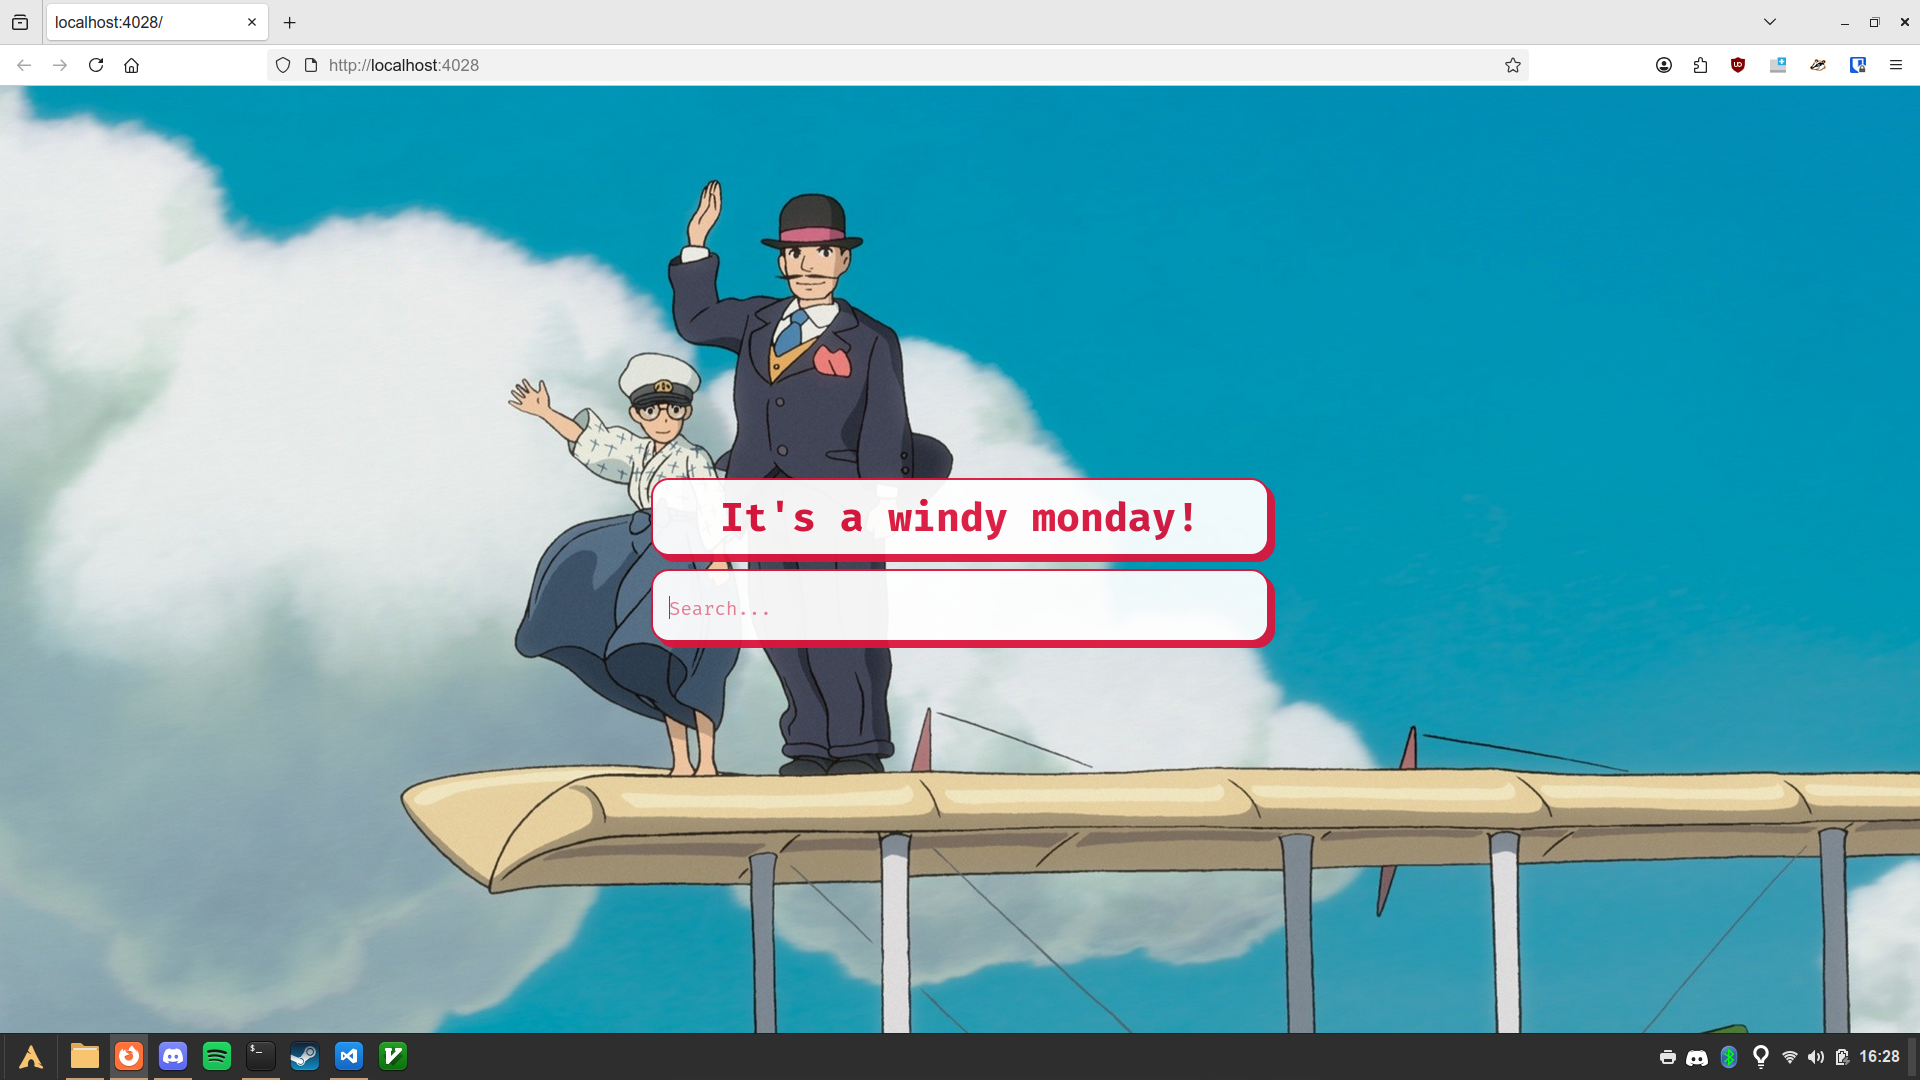
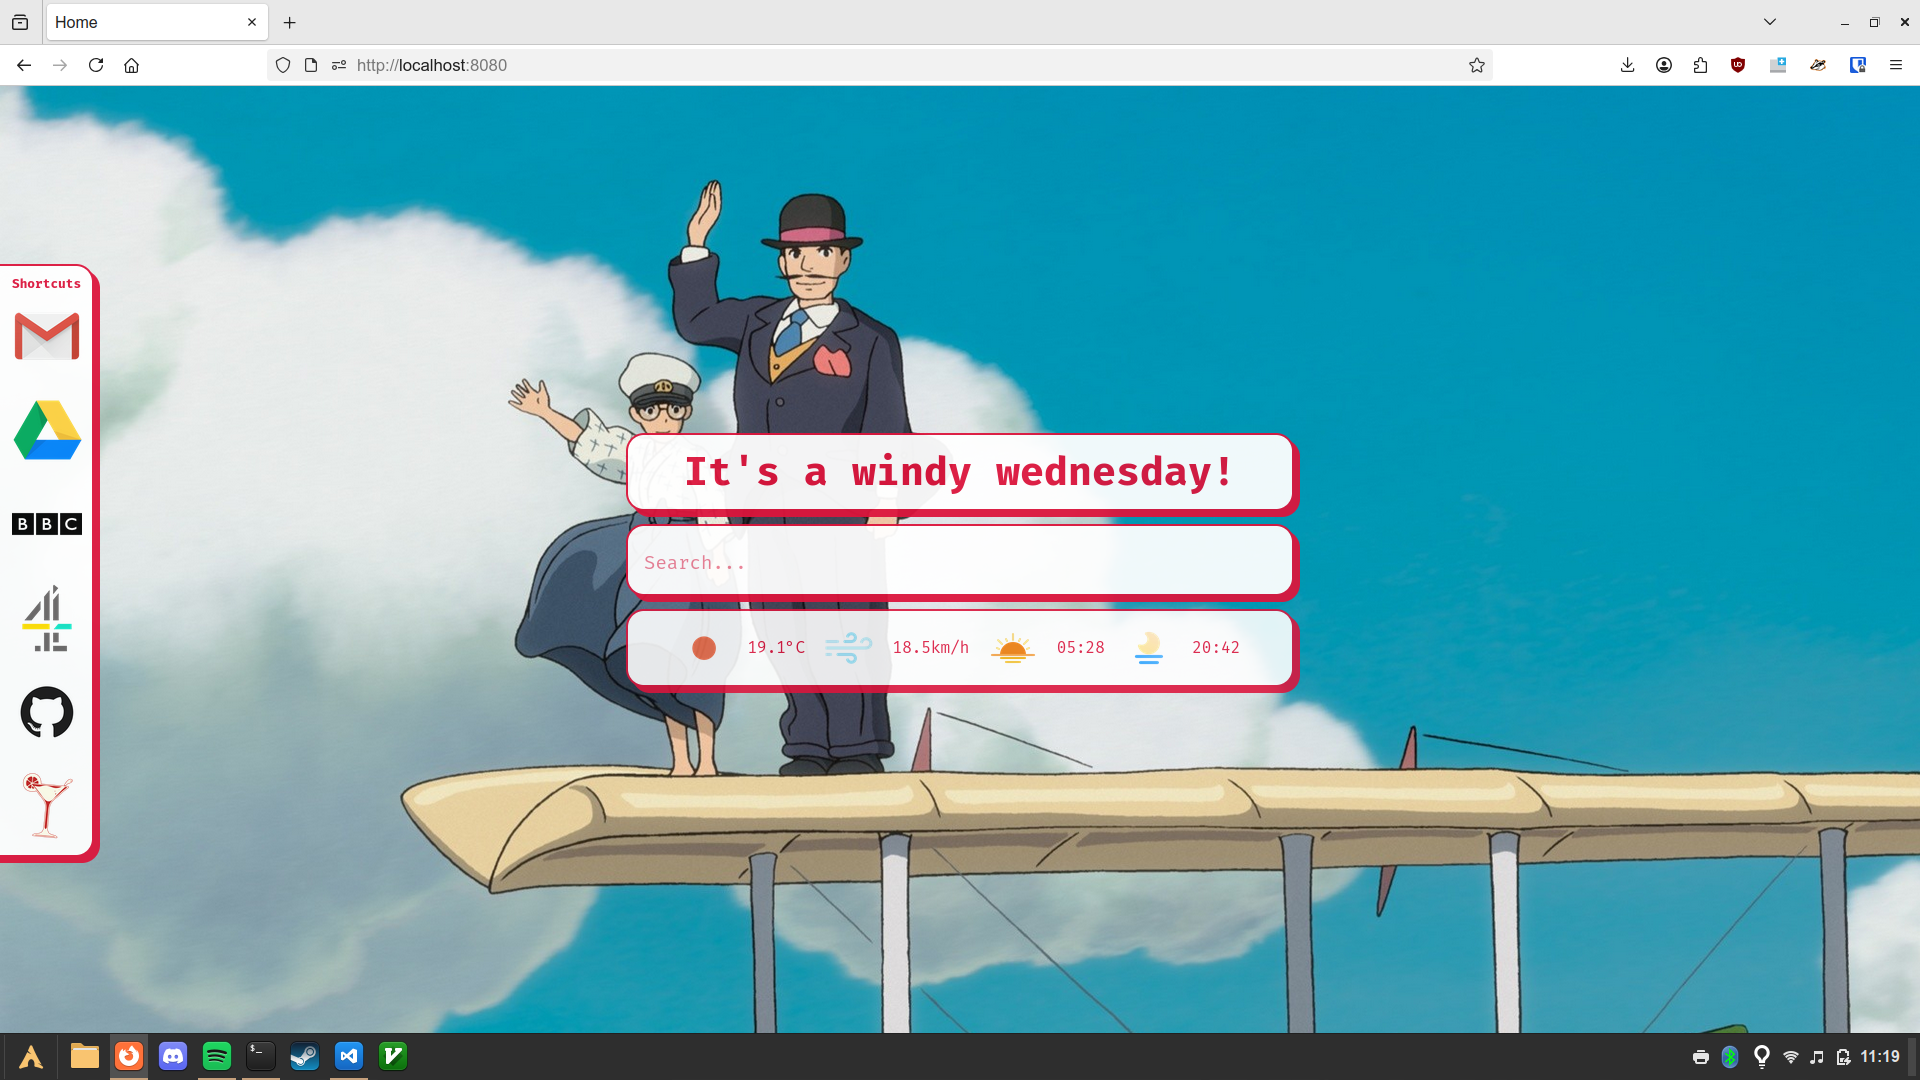
Add weather elements

diff --git a/src/main/resources/static/css/style.css b/src/main/resources/static/css/style.css
@@ -30,7 +30,7 @@ body{
 }
 
 .tagline-container{
-    width: 550px;
+    width: 600px;
     background-color: white;
     border: 2px solid crimson;
     padding: 0.8rem 2rem;
@@ -43,7 +43,7 @@ body{
 }
 
 .searchbox-container form input{
-    width: 550px;
+    width: 600px;
     padding: 0.8rem 3rem 0.5rem 1rem;
     height: 48px;
     border-radius: 18px;
@@ -58,6 +58,26 @@ body{
 input:focus{
     outline: inherit;
 }
+
+.stats-container{
+    width:600px;
+    background-color: white;
+    opacity: 0.94;
+    padding: 0.8rem 2rem;
+    border-radius: 18px;
+    border: 2px solid crimson;
+    filter: drop-shadow(6px 6px 0 crimson);
+    height: 48px;
+    display: flex;
+    flex-direction: row;
+    justify-content: space-evenly;
+}
+
+.stats-container p{
+    margin:auto 0;
+}
+
+/* Shortcut Panel */
 
 .shortcut-container{
     background-color: white;
@@ -78,10 +98,10 @@ input:focus{
 
 .shortcut-wrapper{
     position: absolute;
-    left: -1100px;
+    left: -1120px;
     top: 50%;
     transform: translate(0%, -50%);
-    padding-right:60px;
+    padding-right:160px;
     padding-left:1000px;
 }
 

diff --git a/src/main/resources/templates/index.html b/src/main/resources/templates/index.html
@@ -25,6 +25,16 @@
                     <input type="text" name="q" value="" placeholder="Search..." autofocus="autofocus" autocomplete="off">
                 </form>
             </div>
+            <div class="stats-container">
+                <img th:src="@{${weather.iconUrl}}"/>
+                <p><span th:text="${#numbers.formatDecimal(weather.temp,0,1)}"></span>°C</p>
+                <img th:src="@{/images/misc/wind.png}"/>
+                <p><span th:text="${#numbers.formatDecimal(weather.windSpeedKph,0,1)}"></span>km/h</p>
+                <img th:src="@{/images/misc/sunrise.png}"/>
+                <p><span th:text="${#temporals.format(weather.sunrise, 'HH:mm')}"></span></p>
+                <img th:src="@{/images/misc/sunset.png}"/>
+                <p><span th:text="${#temporals.format(weather.sunset, 'HH:mm')}"></span></p>
+            </div>
         </section>
 
         <section class="shortcut-wrapper">

diff --git a/src/main/java/com/daniel/homepage/model/Weather.java b/src/main/java/com/daniel/homepage/model/Weather.java
@@ -1,11 +1,12 @@
 package com.daniel.homepage.model;
 
+import java.net.URI;
 import java.time.LocalDateTime;
+
+import org.springframework.lang.NonNull;
 
 import com.daniel.homepage.adapter.WeatherDeserializer;
 import com.fasterxml.jackson.databind.annotation.JsonDeserialize;
-
-import io.micrometer.common.lang.NonNull;
 
 @JsonDeserialize(using = WeatherDeserializer.class)
 public class Weather {
@@ -13,13 +14,15 @@ public class Weather {
     private String descriptor;
     private String summary;
     private String adjective = "";
+    private String icon = "10d";
+    private URI iconUrl;
     private double temp;
     private double feelsLike;
     private double maxTemp;
     private double minTemp;
     private int pressure;
     private int humidity;
-    private double windSpeed;
+    private double windSpeedKph;
     private double windDirectionDeg;
     private int cloudCover;
     private LocalDateTime sunrise;
@@ -46,6 +49,14 @@ public class Weather {
         this.summary = summary;
     }
 
+    public void setIcon(String icon) {
+        this.icon = icon;
+    }
+
+    public void setIconUrl(String prefix, String icon, String suffix) {
+        this.iconUrl = URI.create(prefix + icon + suffix);
+    }
+
     public void setTemp(double temp) {
         this.temp = temp;
     }
@@ -70,8 +81,12 @@ public class Weather {
         this.humidity = humidity;
     }
 
-    public void setWindSpeed(double windSpeed) {
-        this.windSpeed = windSpeed;
+    public void setWindSpeedKph(double windSpeed) {
+        this.windSpeedKph = windSpeed;
+    }
+
+    public void setWindSpeedKphFromMps(double windSpeed) {
+        this.windSpeedKph = windSpeed * 3.6;
     }
 
     public void setWindDirectionDeg(double windDirectionDeg) {
@@ -140,8 +155,8 @@ public class Weather {
         return humidity;
     }
 
-    public double getWindSpeed() {
-        return windSpeed;
+    public double getWindSpeedKph() {
+        return windSpeedKph;
     }
 
     public double getWindDirectionDeg() {
@@ -176,13 +191,21 @@ public class Weather {
         return timeCreated;
     }
 
+    public String getIcon() {
+        return icon;
+    }
+
+    public URI getIconUrl() {
+        return iconUrl;
+    }
+
     @Override
     public String toString(){
         return String.format("[%s]<timeCreated=%s, adjective=%s, descriptor=%s, summary=%s, temp=%f"
             + ", feelsLike=%f, maxTemp=%f, minTemp=%f, pressure=%d, humidity=%d, windSpeed=%f, windDirectionDeg=%f"
             + ", cloudCover=%d, sunrise=%s, sunset=%s, lat=%f, lon=%f, location=%s>",
             super.toString(), timeCreated.toString(), adjective, descriptor, summary, temp, feelsLike, maxTemp, minTemp, pressure,
-            humidity, windSpeed, windDirectionDeg, cloudCover, sunrise.toString(), sunset.toString(),
+            humidity, windSpeedKph, windDirectionDeg, cloudCover, sunrise.toString(), sunset.toString(),
             lat, lon, locationName);
     }
 

diff --git a/src/main/java/com/daniel/homepage/adapter/WeatherDeserializer.java b/src/main/java/com/daniel/homepage/adapter/WeatherDeserializer.java
@@ -35,6 +35,7 @@ public class WeatherDeserializer extends StdDeserializer<Weather>{
     private static final String LOCATION = "name";
     private static final String LAT = "lat";
     private static final String LON = "lon";
+    private static final String ICON = "icon";
 
     public WeatherDeserializer() { 
         this(null); 
@@ -56,6 +57,8 @@ public class WeatherDeserializer extends StdDeserializer<Weather>{
             summaryNode.get(WEATHER_NAME).asText());
         weather.setSummary(
             summaryNode.get(DESCRIPTION).asText());
+        weather.setIcon(
+            summaryNode.get(ICON).asText());
 
         JsonNode mainNode = root.get(MAIN_NODE);
         weather.setTemp(
@@ -72,7 +75,7 @@ public class WeatherDeserializer extends StdDeserializer<Weather>{
             mainNode.get(HUMIDITY).asInt());
 
         JsonNode windNode = root.get(WIND_NODE);
-        weather.setWindSpeed(
+        weather.setWindSpeedKphFromMps(
             windNode.get(WIND_SPEED).asDouble());
         weather.setWindDirectionDeg(
             windNode.get(WIND_DIRECTION).asDouble());

diff --git a/src/main/java/com/daniel/homepage/service/WeatherService.java b/src/main/java/com/daniel/homepage/service/WeatherService.java
@@ -63,7 +63,7 @@ public class WeatherService {
         if(weather.getHumidity() >= weatherConfig.getHighHumidity())
             return messageConfig.getHighHumidity();
 
-        if(weather.getWindSpeed() >= weatherConfig.getHighWindspeed())
+        if(weather.getWindSpeedKph() >= weatherConfig.getHighWindspeed())
             return messageConfig.getWind();
 
         if(adjectiveMap.get(descriptor) != null) // 'clouds' should be the only value left
@@ -99,6 +99,9 @@ public class WeatherService {
             
             currentWeather.setAdjective(decideAdjective(currentWeather));
             System.out.println("Adjective chosen: " + currentWeather.getAdjective());
+
+            currentWeather.setIconUrl(weatherConfig.getIconPrefix(), currentWeather.getIcon(), weatherConfig.getIconSuffix());
+            System.out.println("Weather Icon URL: " + currentWeather.getIconUrl());
         }
         catch (JsonProcessingException e){
             System.out.println("Failed to read the weather json! " + e);

diff --git a/src/main/java/com/daniel/homepage/config/WeatherConfig.java b/src/main/java/com/daniel/homepage/config/WeatherConfig.java
@@ -16,6 +16,8 @@ public class WeatherConfig {
     private int veryHighTemp;
     private int highHumidity;
     private int highWindspeed; 
+    private String iconPrefix;
+    private String iconSuffix;
 
     public void setRefreshCron(String refreshCron) {
         this.refreshCron = refreshCron;
@@ -65,6 +67,14 @@ public class WeatherConfig {
         this.highWindspeed = highWindspeed;
     }
 
+    public void setIconPrefix(String iconPrefix) {
+        this.iconPrefix = iconPrefix;
+    }
+
+    public void setIconSuffix(String iconSuffix) {
+        this.iconSuffix = iconSuffix;
+    }
+
     public String getRefreshCron(){
         return refreshCron;
     }
@@ -112,5 +122,12 @@ public class WeatherConfig {
     public int getHighWindspeed() {
         return highWindspeed;
     }
-    
+
+    public String getIconPrefix() {
+        return iconPrefix;
+    }
+
+    public String getIconSuffix() {
+        return iconSuffix;
+    }
 }

diff --git a/README.md b/README.md
@@ -11,6 +11,41 @@ source scripts/prepare-env.sh
 mvn spring-boot:run
 ```
 
+## Configuration
+The servelet is completely configurable at [src/main/resources/*.properties](src/main/resources/application.properties). Shortcuts can be added/removed, weather adjectives can be changed, definitions of e.g. 'hot' or 'very hot' can be changed, and the wallpapers can be easily swapped out.
+```
+spring.application.name=Browser Homepage
+server.address=localhost
+server.port=4028
+
+weather.refresh_cron=0 */20 * * * *
+weather.http_timeout_s=10
+weather.base_url=https://api.openweathermap.org/data/2.5/weather
+weather.latitude=${LAT}
+weather.longitude=${LON}
+weather.units=metric
+weather.api_key=${API_KEY}
+weather.icon_prefix=https://openweathermap.org/img/wn/
+weather.icon_suffix=@4x.png
+weather.freezing_temp=0
+weather.high_temp=26
+weather.very_high_temp=32
+weather.high_humidity=85
+weather.high_windspeed=7
+
+wallpaper.snow=snow.webp
+wallpaper.thunder=thunderstorm.webp
+wallpaper.rain=rain.gif
+[...]
+
+shortcut.images=gmail.png,github.png,[...]
+shortcut.urls=mail.google.com/mail,github.com/carlossss111,[...]
+shortcut.alts=GMail,Github,[...]
+```
+
+
+
+
 ## First time installation
 Install using maven, take a note of where the jar file is installed to.
 ```
@@ -42,3 +77,6 @@ When updating with a new version of the code, the binary only needs to be update
 mvn clean install
 systemctl restart springhomepage.service
 ```
+
+## Future Direction
+After adding weather info, I'd like to use webgl to add shaders e.g. to create a rain effect
